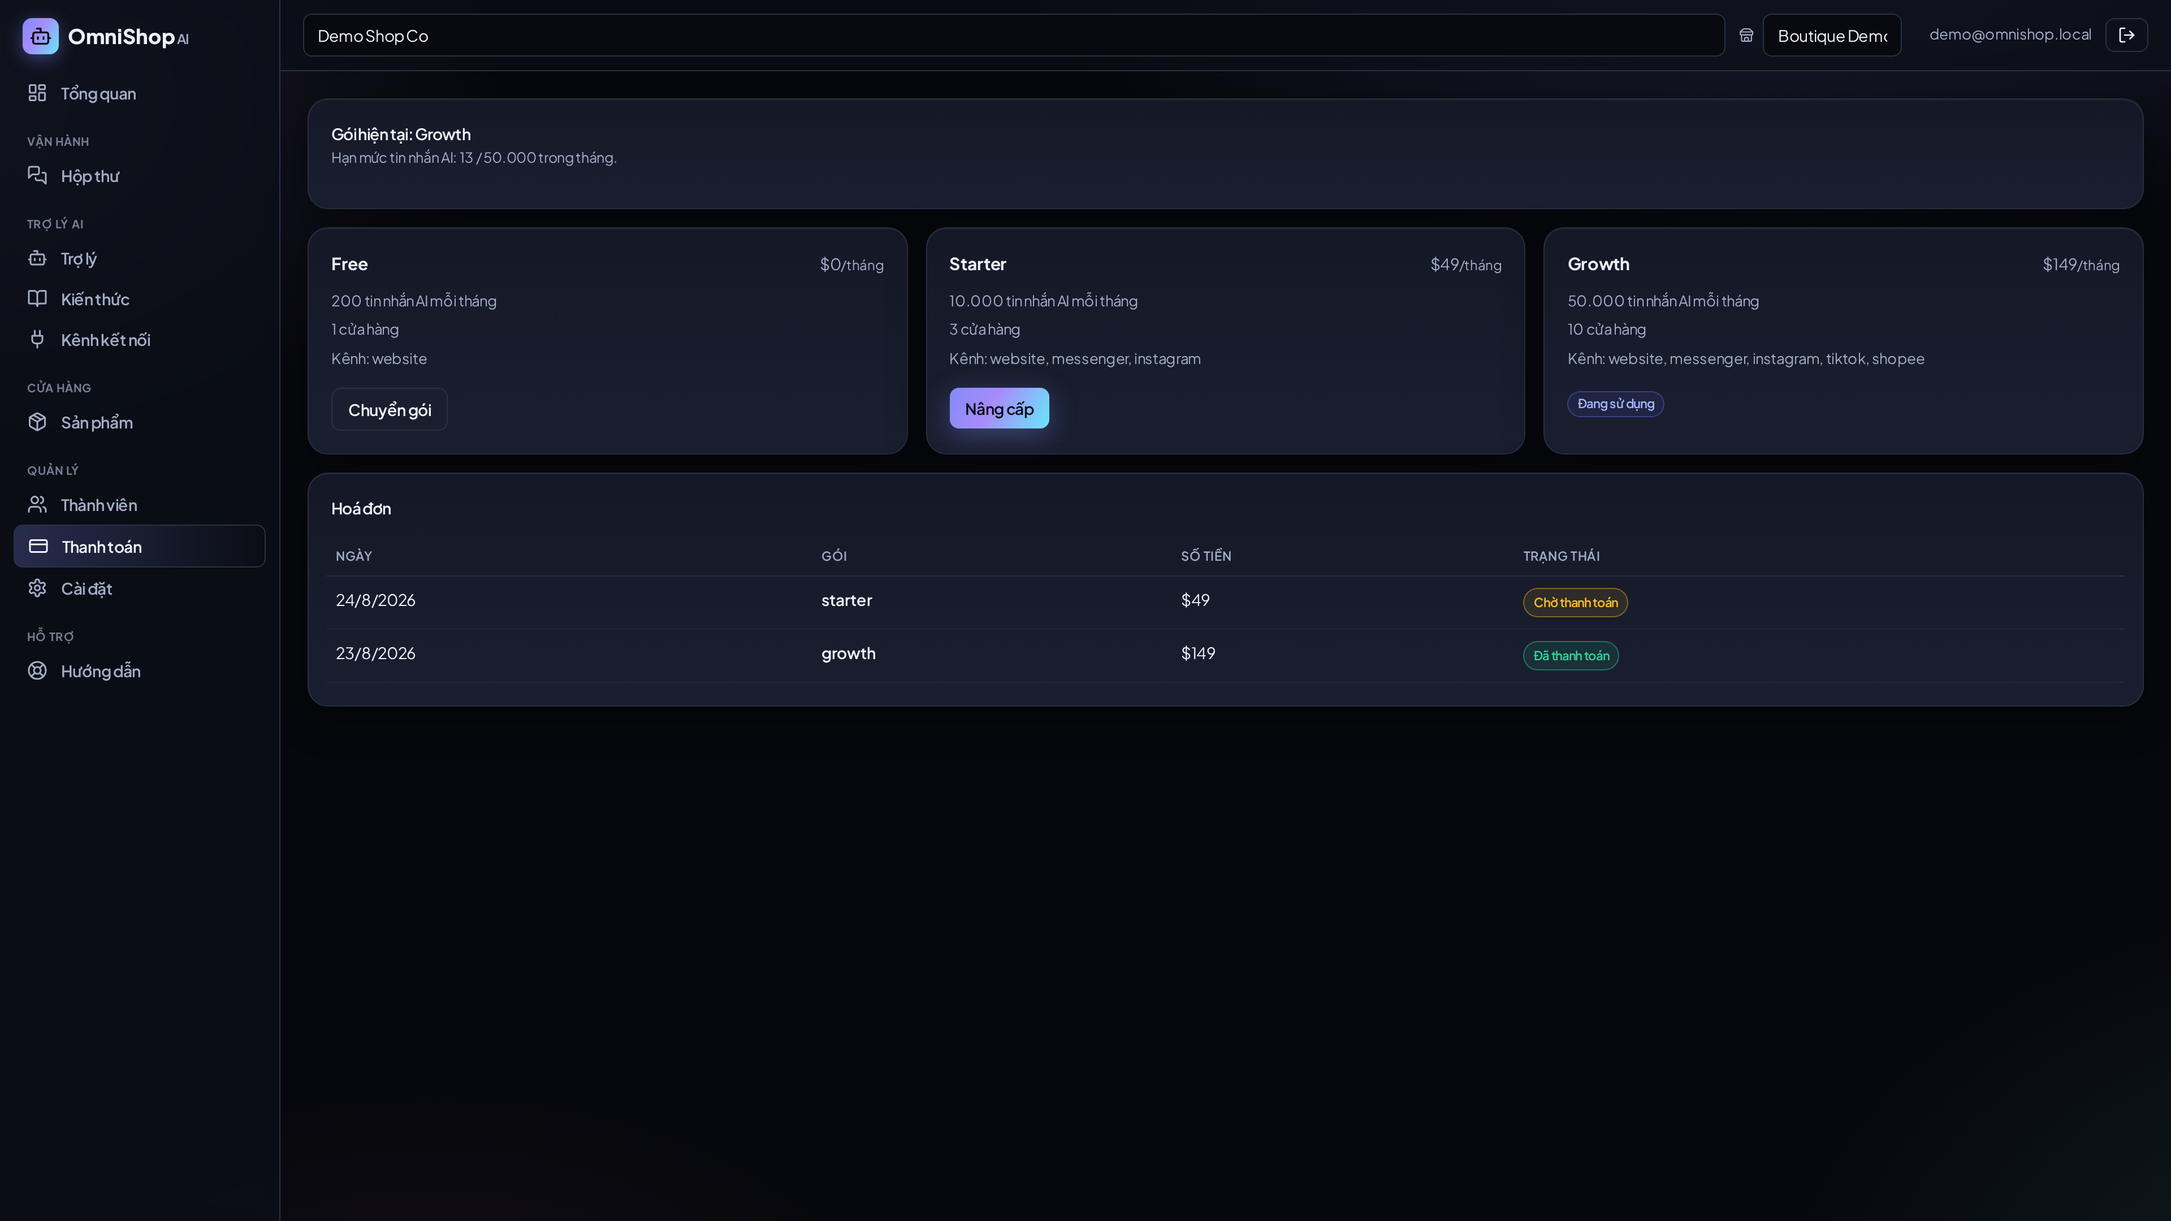
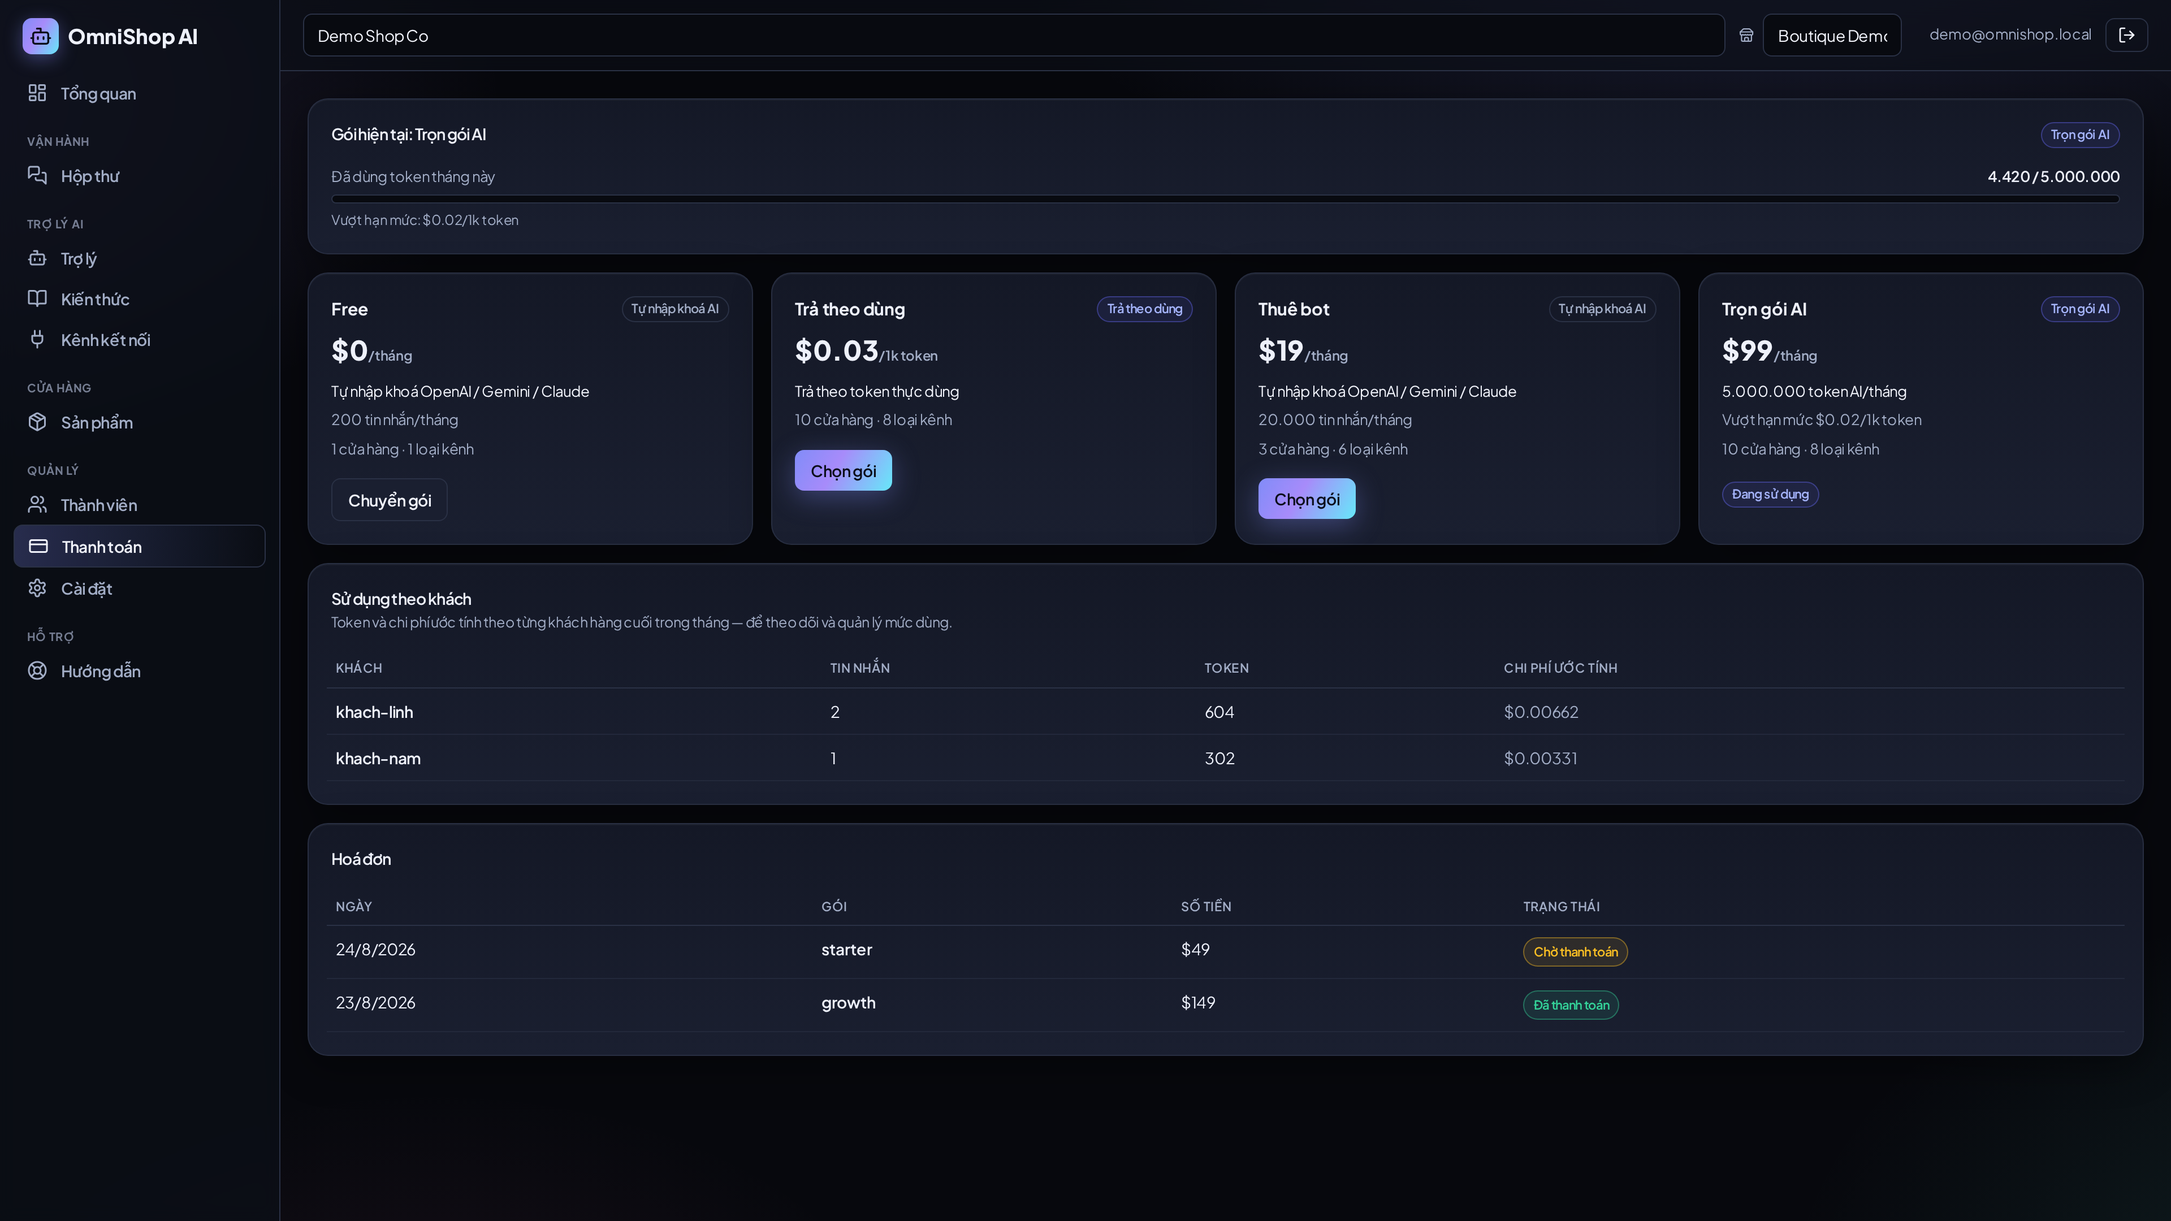
Flexible pricing (BYOK / managed / PAYG) + tenant & per-end-user token management
Plans (migration 008): each plan carries llm_mode (byok=tenant's own key, cheaper
/ managed=platform LLM, price includes tokens), billing_mode (subscription|payg),
token allowance, overage and PAYG rates.
- Free & "Thuê bot" (BYOK): pay for software, use your own OpenAI/Gemini/Claude key.
- "Trọn gói AI" (managed): platform model, 5M tokens/mo, $0.02/1k overage.
- "Trả theo dùng" (PAYG): $0.03/1k tokens, no monthly commit.

Token management:
- usage_event.customer_ref; orchestrator attributes each metered message.
- check_ai_quota is mode-aware: managed = token allowance (+overage or hard cap),
  payg = never blocked (metered), byok = message fair-use cap.
- New endpoints: token_usage in /api/subscription quota; GET /api/usage/by-customer
  aggregates tokens/messages/cost per end customer this month.
- Verified: quota reports tokens_used/included; per-customer rows populate from
  real widget traffic.

Billing UI: plan cards show mode badges + token/PAYG pricing; current-plan card
shows a token usage bar (managed) / message bar (byok) / metered total (payg);
new "Sử dụng theo khách" per-end-user usage table.

docs/pricing.md documents the model. Refreshed 08-billing.

Claude-Session: https://claude.ai/code/session_017LKkBhDkFvz1h5L96tHSaD

diff --git a/web/src/pages.tsx b/web/src/pages.tsx
@@ -405,13 +405,27 @@ export function Members({ role }: { role: string }) {
 const roleLabel = (r: string) => ({ owner: "Chủ sở hữu", admin: "Quản trị", agent: "Nhân viên", viewer: "Người xem" } as any)[r] || r;
 
 // ============================================================ Billing
+const modeLabel = (llm: string, bill: string) => bill === "payg" ? "Trả theo dùng" : llm === "managed" ? "Trọn gói AI" : "Tự nhập khoá AI";
+
+function UsageBar({ used, total, unit, note }: { used: number; total: number; unit: string; note?: string }) {
+  const pct = total > 0 ? Math.min(100, Math.round((used / total) * 100)) : 0;
+  const over = total > 0 && used >= total;
+  return (
+    <div>
+      <div className="flex justify-between text-[13px] font-normal mb-1.5"><span className="text-muted">Đã dùng {unit} tháng này</span><span className="font-semibold">{fmt(used)}{total > 0 ? ` / ${fmt(total)}` : ""}</span></div>
+      <div className="h-2 rounded-full bg-bg border border-line overflow-hidden"><div className={"h-full rounded-full " + (over ? "bg-bad" : "bg-pastel")} style={{ width: `${total > 0 ? pct : (used > 0 ? 100 : 0)}%` }} /></div>
+      {note && <div className="text-[12px] text-muted font-normal mt-1.5">{note}</div>}
+    </div>
+  );
+}
+
 export function Billing({ role }: { role: string }) {
   const [plans, setPlans] = useState<any[] | null>(null); const [sub, setSub] = useState<any>(null);
-  const [invoices, setInvoices] = useState<any[]>([]); const [err, setErr] = useState("");
+  const [invoices, setInvoices] = useState<any[]>([]); const [err, setErr] = useState(""); const [customers, setCustomers] = useState<any[]>([]);
   const [checkout, setCheckout] = useState<any>(null); const [busy, setBusy] = useState(false);
   const isOwner = role === "owner";
-  const load = () => Promise.all([api.get("/api/plans"), api.get("/api/subscription"), api.get("/api/billing/invoices")])
-    .then(([p, s, i]) => { setPlans(p); setSub(s); setInvoices(i); }).catch((e) => setErr(e.message));
+  const load = () => Promise.all([api.get("/api/plans"), api.get("/api/subscription"), api.get("/api/billing/invoices"), api.get("/api/usage/by-customer")])
+    .then(([p, s, i, c]) => { setPlans(p); setSub(s); setInvoices(i); setCustomers(c); }).catch((e) => setErr(e.message));
   useEffect(() => { load(); }, []);
   if (err) return <Msg type="err">{err}</Msg>;
   if (!plans || !sub) return <Spinner />;
@@ -426,23 +440,47 @@ export function Billing({ role }: { role: string }) {
   return (
     <div className="space-y-4">
       <Card>
-        <CardTitle sub={`Hạn mức tin nhắn AI: ${fmt(sub.quota.used)} / ${fmt(sub.quota.limit)} trong tháng.`}>Gói hiện tại: {sub.entitlements._plan_name}</CardTitle>
-        {!isOwner && <p className="text-[13px] text-muted font-normal">Chỉ Chủ sở hữu mới thay đổi được gói dịch vụ.</p>}
+        <CardTitle right={<Badge kind="ai">{modeLabel(sub.quota.llm_mode, sub.quota.billing_mode)}</Badge>}>Gói hiện tại: {sub.entitlements._plan_name}</CardTitle>
+        {sub.quota.billing_mode === "payg" ? (
+          <div className="text-[13px] font-normal">
+            <div className="flex justify-between"><span className="text-muted">Đã dùng tháng này</span><span className="font-semibold">{fmt(sub.quota.tokens_used)} token · {fmt(sub.quota.messages_used)} tin nhắn</span></div>
+            <div className="flex justify-between mt-1"><span className="text-muted">Ước tính chi phí</span><span className="font-semibold">${sub.quota.cost.toFixed(4)}</span></div>
+          </div>
+        ) : sub.quota.llm_mode === "managed" ? (
+          <UsageBar used={sub.quota.tokens_used} total={sub.quota.tokens_included} unit="token" note={sub.quota.overage_per_1k > 0 ? `Vượt hạn mức: $${sub.quota.overage_per_1k}/1k token` : "Hết hạn mức sẽ tạm dừng trả lời tự động"} />
+        ) : (
+          <div><UsageBar used={sub.quota.messages_used} total={sub.quota.messages_limit} unit="tin nhắn" note="Bạn dùng khoá AI của mình — chỉ tính phí phần mềm, không tính token." />
+            <div className="text-[12px] text-muted font-normal mt-1.5">Đã tiêu thụ {fmt(sub.quota.tokens_used)} token (bằng khoá của bạn).</div></div>
+        )}
+        {!isOwner && <p className="text-[13px] text-muted font-normal mt-2">Chỉ Chủ sở hữu mới thay đổi được gói dịch vụ.</p>}
       </Card>
-      <div className="grid md:grid-cols-3 gap-4">
-        {plans.map((p) => (
+      <div className="grid md:grid-cols-2 xl:grid-cols-4 gap-4">
+        {plans.map((p) => { const e = p.entitlements; return (
           <Card key={p.code} className={cur === p.code ? "border-accent shadow-glow" : ""}>
-            <div className="flex items-baseline justify-between"><span className="font-bold text-[15px]">{p.name}</span><span className="text-muted text-sm font-normal">${p.price_month}<span className="text-xs">/tháng</span></span></div>
+            <div className="flex items-start justify-between gap-2"><span className="font-bold text-[15px]">{p.name}</span><Badge kind={e.llm_mode === "managed" ? "ai" : "default"}>{modeLabel(e.llm_mode, e.billing_mode)}</Badge></div>
+            <div className="mt-2 mb-1">{e.billing_mode === "payg"
+              ? <span className="text-2xl font-extrabold">${e.payg_per_1k}<span className="text-xs text-muted font-semibold">/1k token</span></span>
+              : <span className="text-2xl font-extrabold">${p.price_month}<span className="text-xs text-muted font-semibold">/tháng</span></span>}</div>
             <ul className="text-[13px] text-muted mt-3 space-y-1.5 font-normal">
-              <li>{fmt(p.entitlements.ai_messages_month)} tin nhắn AI mỗi tháng</li>
-              <li>{p.entitlements.shops} cửa hàng</li>
-              <li>Kênh: {(p.entitlements.channels_allowed || []).join(", ")}</li>
+              {e.llm_mode === "managed"
+                ? <li className="text-fg">{e.billing_mode === "payg" ? "Trả theo token thực dùng" : `${fmt(e.ai_tokens_month)} token AI/tháng`}</li>
+                : <li className="text-fg">Tự nhập khoá OpenAI / Gemini / Claude</li>}
+              {e.llm_mode === "byok" && <li>{e.ai_messages_month ? `${fmt(e.ai_messages_month)} tin nhắn/tháng` : "Không giới hạn tin nhắn"}</li>}
+              {e.overage_per_1k > 0 && <li>Vượt hạn mức ${e.overage_per_1k}/1k token</li>}
+              <li>{e.shops} cửa hàng · {(e.channels_allowed || []).length} loại kênh</li>
             </ul>
             <div className="mt-4">{cur === p.code ? <Badge kind="active">Đang sử dụng</Badge> :
-              isOwner ? <Button variant={p.price_month ? "primary" : "sec"} onClick={() => pick(p)}>{p.price_month ? "Nâng cấp" : "Chuyển gói"}</Button> : <span className="text-xs text-muted">—</span>}</div>
+              isOwner ? <Button variant={p.price_month || e.billing_mode === "payg" ? "primary" : "sec"} onClick={() => pick(p)}>{p.price_month || e.billing_mode === "payg" ? "Chọn gói" : "Chuyển gói"}</Button> : <span className="text-xs text-muted">—</span>}</div>
           </Card>
-        ))}
+        ); })}
       </div>
+      <Card>
+        <CardTitle sub="Token và chi phí ước tính theo từng khách hàng cuối trong tháng — để theo dõi và quản lý mức dùng.">Sử dụng theo khách</CardTitle>
+        {customers.length === 0 ? <Empty>Chưa có dữ liệu sử dụng tháng này.</Empty> :
+          <Table head={["Khách", "Tin nhắn", "Token", "Chi phí ước tính"]}>
+            {customers.map((c) => <tr key={c.customer_ref}><Td className="font-semibold">{c.customer_ref}</Td><Td>{fmt(c.messages)}</Td><Td>{fmt(c.tokens)}</Td><Td className="text-muted">${c.cost.toFixed(5)}</Td></tr>)}
+          </Table>}
+      </Card>
       <Card>
         <CardTitle>Hoá đơn</CardTitle>
         {invoices.length === 0 ? <Empty>Chưa có hoá đơn nào.</Empty> :

diff --git a/app/modules/usage.py b/app/modules/usage.py
@@ -32,15 +32,16 @@ def record_ai_message(
     output_tokens: int,
     retrieval_count: int,
     latency_ms: int,
+    customer_ref: Optional[str] = None,
 ) -> float:
     cost = estimate_cost(input_tokens, output_tokens)
     with tenant_tx(org_id) as conn:
         conn.execute(
             """INSERT INTO usage_event
-               (organization_id, shop_id, channel_id, conversation_id, kind, llm_model,
+               (organization_id, shop_id, channel_id, conversation_id, customer_ref, kind, llm_model,
                 input_tokens, output_tokens, retrieval_count, latency_ms, estimated_cost)
-               VALUES (%s,%s,%s,%s,'ai_message',%s,%s,%s,%s,%s,%s)""",
-            (org_id, shop_id, channel_id, conversation_id, model,
+               VALUES (%s,%s,%s,%s,%s,'ai_message',%s,%s,%s,%s,%s,%s)""",
+            (org_id, shop_id, channel_id, conversation_id, customer_ref, model,
              input_tokens, output_tokens, retrieval_count, latency_ms, cost),
         )
     return cost
@@ -72,6 +73,46 @@ def summary(org_id: str) -> dict:
     return {k: (float(v) if k == "total_cost" else int(v)) for k, v in row.items()}
 
 
+def token_usage(org_id: str) -> dict:
+    """Tokens used this billing period (input+output) for quota/PAYG accounting."""
+    with tenant_tx(org_id) as conn:
+        row = conn.execute(
+            """SELECT coalesce(sum(input_tokens),0) AS inp, coalesce(sum(output_tokens),0) AS outp,
+                      count(*) FILTER (WHERE kind='ai_message') AS messages,
+                      coalesce(sum(estimated_cost),0) AS cost
+               FROM usage_event
+               WHERE created_at >= date_trunc('month', now())"""
+        ).fetchone()
+    tokens = int(row["inp"]) + int(row["outp"])
+    return {"tokens": tokens, "input_tokens": int(row["inp"]), "output_tokens": int(row["outp"]),
+            "messages": int(row["messages"]), "cost": float(row["cost"])}
+
+
+def by_customer(org_id: str, limit: int = 50) -> list:
+    """Per-end-user usage this month (tokens/messages/cost) for token management."""
+    with tenant_tx(org_id) as conn:
+        rows = conn.execute(
+            """SELECT customer_ref,
+                      count(*) AS messages,
+                      coalesce(sum(input_tokens+output_tokens),0) AS tokens,
+                      coalesce(sum(estimated_cost),0) AS cost,
+                      max(created_at) AS last_at
+               FROM usage_event
+               WHERE kind='ai_message' AND customer_ref IS NOT NULL
+                 AND created_at >= date_trunc('month', now())
+               GROUP BY customer_ref ORDER BY tokens DESC LIMIT %s""",
+            (limit,),
+        ).fetchall()
+    return [{"customer_ref": r["customer_ref"], "messages": int(r["messages"]),
+             "tokens": int(r["tokens"]), "cost": float(r["cost"]),
+             "last_at": r["last_at"].isoformat() if r["last_at"] else None} for r in rows]
+
+
 @router.get("/summary")
 def get_summary(ctx: OrgContext = Depends(get_org_context)):
     return summary(ctx.org_id)
+
+
+@router.get("/by-customer")
+def get_by_customer(ctx: OrgContext = Depends(get_org_context)):
+    return by_customer(ctx.org_id)

diff --git a/app/modules/billing.py b/app/modules/billing.py
@@ -50,10 +50,37 @@ def ai_messages_used(org_id: str) -> int:
 
 
 def check_ai_quota(org_id: str) -> dict:
+    """Mode-aware gate, checked server-side before each managed AI call.
+
+    - managed subscription: allow until the token allowance is spent; if the plan
+      permits overage (overage_per_1k > 0) keep going and meter it, else hard-cap.
+    - payg (managed): never blocked — every token is metered and billed.
+    - byok: tenant pays their own tokens, so we only apply a message fair-use cap.
+    """
+    from . import usage as _usage
     ent = resolve_entitlements(org_id)
-    limit = int(ent.get("ai_messages_month", 0))
-    used = ai_messages_used(org_id)
-    return {"allowed": used < limit, "used": used, "limit": limit, "plan": ent["_plan"]}
+    mode = ent.get("llm_mode", "byok")
+    billing_mode = ent.get("billing_mode", "subscription")
+    tu = _usage.token_usage(org_id)
+    tokens_used, msgs_used = tu["tokens"], tu["messages"]
+    tokens_inc = int(ent.get("ai_tokens_month", 0) or 0)
+    msg_limit = int(ent.get("ai_messages_month", 0) or 0)
+    overage = float(ent.get("overage_per_1k", 0) or 0)
+
+    if billing_mode == "payg":
+        allowed = True
+    elif mode == "managed":
+        allowed = tokens_inc == 0 or tokens_used < tokens_inc or overage > 0
+    else:  # byok
+        allowed = msg_limit == 0 or msgs_used < msg_limit
+
+    return {"allowed": allowed, "plan": ent["_plan"], "llm_mode": mode, "billing_mode": billing_mode,
+            "tokens_used": tokens_used, "tokens_included": tokens_inc,
+            "messages_used": msgs_used, "messages_limit": msg_limit,
+            "overage_per_1k": overage, "payg_per_1k": float(ent.get("payg_per_1k", 0) or 0),
+            "cost": tu["cost"],
+            # legacy fields for existing UI
+            "used": msgs_used, "limit": msg_limit}
 
 
 def channel_allowed(org_id: str, kind: str) -> bool:

diff --git a/app/modules/orchestrator.py b/app/modules/orchestrator.py
@@ -151,7 +151,7 @@ def handle_incoming(org_id: str, shop_id: str, channel_id: str, customer_ref: st
     usage.record_ai_message(
         org_id, shop_id=shop_id, channel_id=channel_id, conversation_id=conv_id,
         model=res.model, input_tokens=res.input_tokens, output_tokens=res.output_tokens,
-        retrieval_count=len(context), latency_ms=latency_ms,
+        retrieval_count=len(context), latency_ms=latency_ms, customer_ref=customer_ref,
     )
 
     return {"conversation_id": conv_id, "reply": res.text, "status": status,

diff --git a/docs/pricing.md b/docs/pricing.md
@@ -1,0 +1,41 @@
+# Định giá & quản lý token
+
+Ba kiểu gói linh hoạt, chọn theo việc **ai trả tiền cho mô hình AI**.
+
+| Gói | code | Kiểu AI | Giá | Token đi kèm | Ghi chú |
+|---|---|---|---|---|---|
+| Free | `free` | Tự nhập khoá (BYOK) | $0 | — | 200 tin nhắn/tháng, dùng khoá AI của bạn |
+| **Thuê bot** | `starter` | Tự nhập khoá (BYOK) | $19/tháng | — | 20.000 tin nhắn/tháng; **giá vừa phải** vì bạn tự trả token bằng khoá OpenAI/Gemini/Claude |
+| **Trọn gói AI** | `growth` | Nền tảng cấp (managed) | $99/tháng | 5.000.000 token | **giá cao** vì đã gồm chi phí mô hình; vượt hạn mức $0.02/1k token |
+| **Trả theo dùng** | `payg` | Nền tảng cấp (managed) | $0 cố định | — | Trả **$0.03/1k token** thực dùng, không cam kết tháng |
+
+Ý tưởng đúng như yêu cầu: **luồng trọn gói** (user không cần nhập khoá LLM) →
+giá cao; **chỉ thuê bot** (user tự nhập khoá OpenAI/Gemini/Claude) → giá vừa
+phải; cộng thêm **pay-as-you-go** theo token.
+
+## Cơ chế (entitlements trong `plan.entitlements`)
+
+- `llm_mode`: `byok` (tenant tự nhập khoá — nền tảng không trả token) hoặc
+  `managed` (nền tảng cấp mô hình, giá gồm token).
+- `billing_mode`: `subscription` hoặc `payg`.
+- `ai_tokens_month`: token đi kèm/tháng (gói managed thuê bao).
+- `overage_per_1k`: giá vượt hạn mức ($/1k token); `0` = chặn cứng khi hết.
+- `payg_per_1k`: giá mỗi 1k token (gói PAYG).
+- `ai_messages_month`: trần tin nhắn (fair-use, gói BYOK); `0` = không giới hạn.
+
+## Quản lý token
+
+**Theo tenant** (`GET /api/subscription` → `quota`, kiểm tra server trước mỗi
+lượt AI managed):
+- *managed thuê bao*: cho chạy đến khi hết `ai_tokens_month`; nếu cho vượt
+  (`overage_per_1k>0`) thì tiếp tục và tính thêm, nếu không thì **tạm dừng trả
+  lời tự động** (chuyển nhân viên).
+- *payg*: không bao giờ chặn — mọi token được đo và tính tiền.
+- *byok*: chỉ áp trần **tin nhắn** (tenant tự trả token bằng khoá của họ).
+
+**Theo khách hàng cuối** (`GET /api/usage/by-customer`): mỗi `usage_event` gắn
+`customer_ref`, tổng hợp token/tin nhắn/chi phí theo từng khách trong tháng —
+hiển thị ở trang Thanh toán để theo dõi và quản lý mức dùng.
+
+Mọi số liệu token/chi phí lấy từ `usage_event` (đo ở orchestrator sau mỗi lượt
+trả lời), đơn giá cấu hình qua `COST_INPUT_PER_M` / `COST_OUTPUT_PER_M`.
